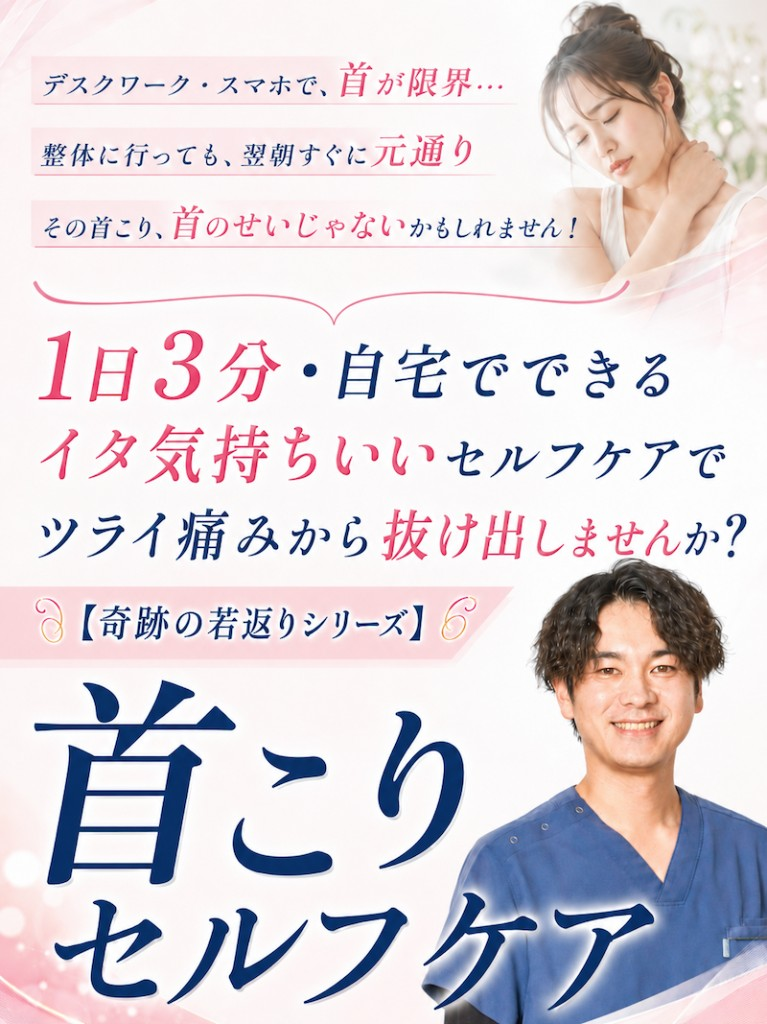
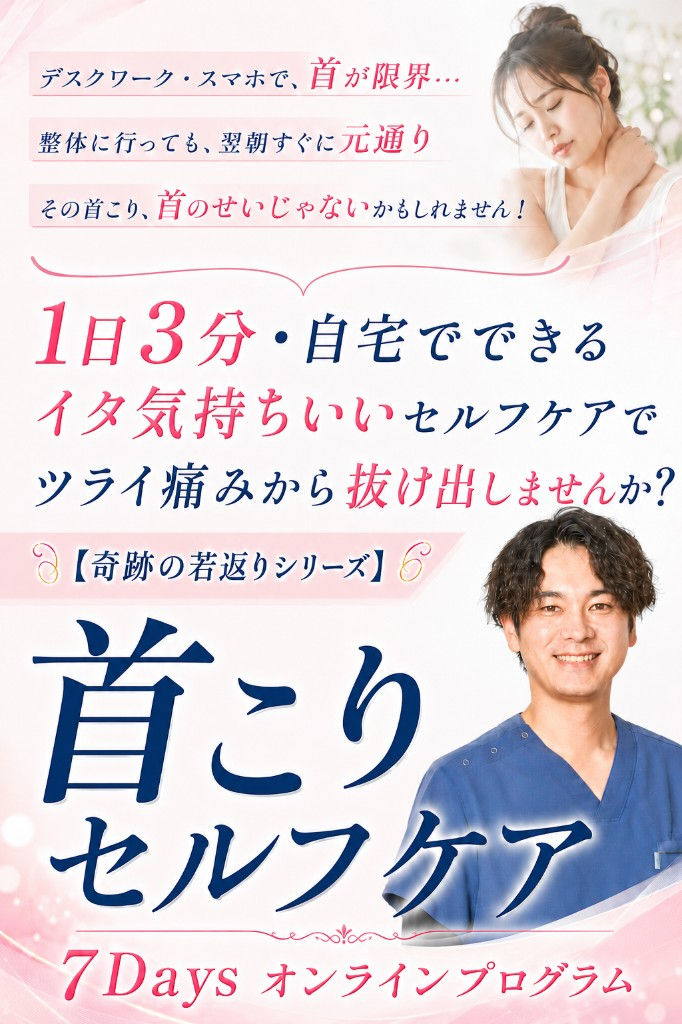
比較表改行・流れ下線・FV画像を更新

diff --git a/W-sp.html b/W-sp.html
@@ -1077,6 +1077,9 @@
       z-index: 1;
       line-height: 1.45;
     }
+    .compare-vs__line-keep {
+      white-space: nowrap;
+    }
     .compare-vs__cell--nowrap .compare-vs__body {
       white-space: normal;
     }
@@ -2026,7 +2029,15 @@
       z-index: 3;
     }
 
-    .disclaimer {
+    .program-flow__title {
+      display: inline-block;
+      font-size: clamp(1.05rem, 4.2vw, 1.25rem);
+      font-weight: 700;
+      color: var(--brand-navy);
+      border-bottom: 3px solid rgba(254, 138, 149, 0.45);
+      padding-bottom: 0.15rem;
+      margin: 0.75rem 0 0.65rem;
+    }
       list-style: none;
       padding: 0;
       font-size: 0.75rem;
@@ -2252,7 +2263,7 @@
 
   <header class="fv">
     <h1 class="visually-hidden">【奇跡の若返りシリーズ】首こりセルフケア</h1>
-    <img class="fv__img" src="assets/fv-main.png" alt="" width="1200" height="1600" loading="eager" fetchpriority="high" />
+    <img class="fv__img" src="assets/fv-main.png" alt="" width="682" height="1024" loading="eager" fetchpriority="high" />
   </header>
 
   <main>
@@ -2644,7 +2655,7 @@
           <div class="compare-vs__row">
             <div class="compare-vs__label">やり方</div>
             <div class="compare-vs__cell compare-vs__cell--other">
-              <span class="compare-vs__body">その場しのぎに<br>なりがち</span>
+              <span class="compare-vs__body"><span class="compare-vs__line-keep">その場しのぎに</span><br>なりがち</span>
             </div>
             <div class="compare-vs__cell compare-vs__cell--ours">
               <span class="compare-vs__body">全15本を順番<br>どおりに進める</span>
@@ -2824,7 +2835,7 @@
           </table>
           <p class="body-text">「動画を見て真似する」だけで終わらず、 <strong>なぜそうなのか</strong>も理解できる構成です。</p>
           <p class="body-text">※自己流にアレンジせず、<strong>①のルールどおり・順番どおり</strong>に進めてください。</p>
-          <p class="body-text"><strong>流れ</strong></p>
+          <p class="program-flow__title">流れ</p>
           <p class="body-text">まずは７日間、届いた動画を順番に視聴して実践してみて下さい。</p>
           <p class="body-text">８日目以降は、セルフケアの動画のみ毎日こつこつと続けてください。</p>
         </div>